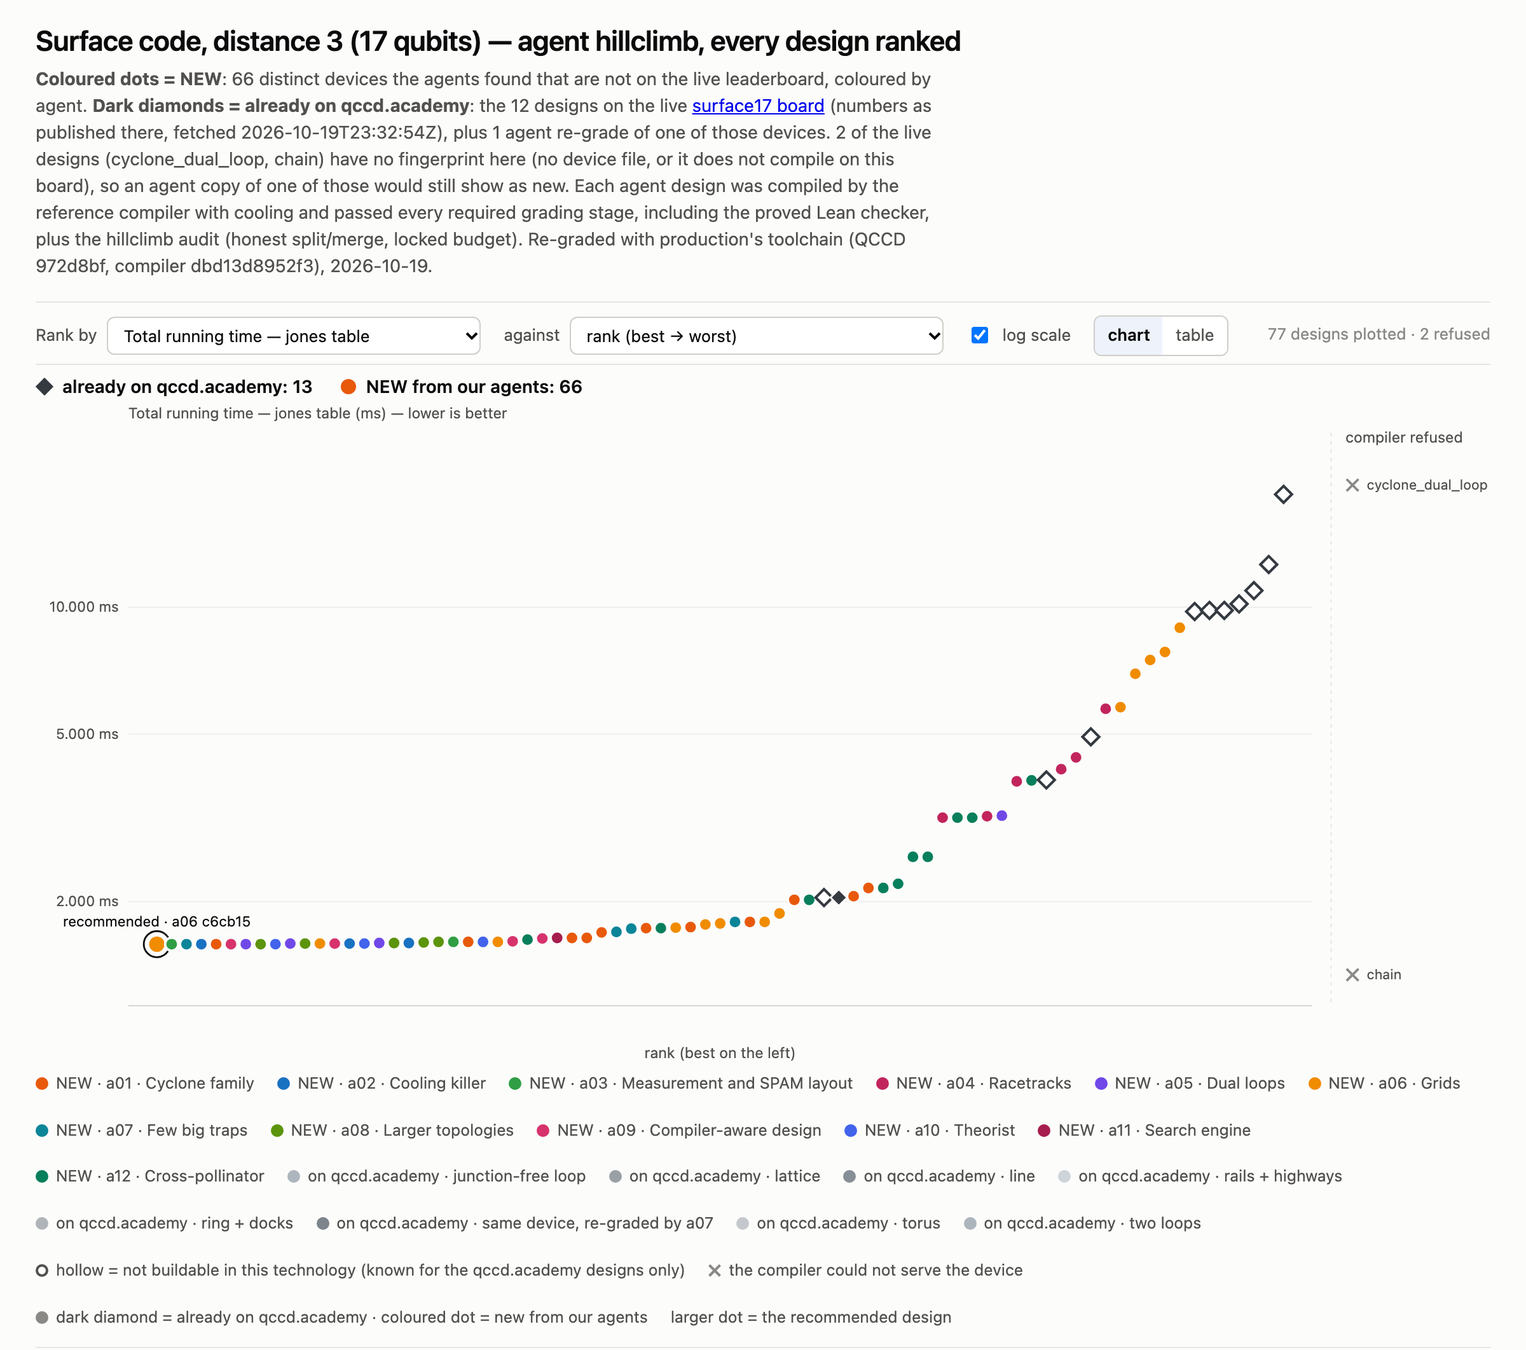
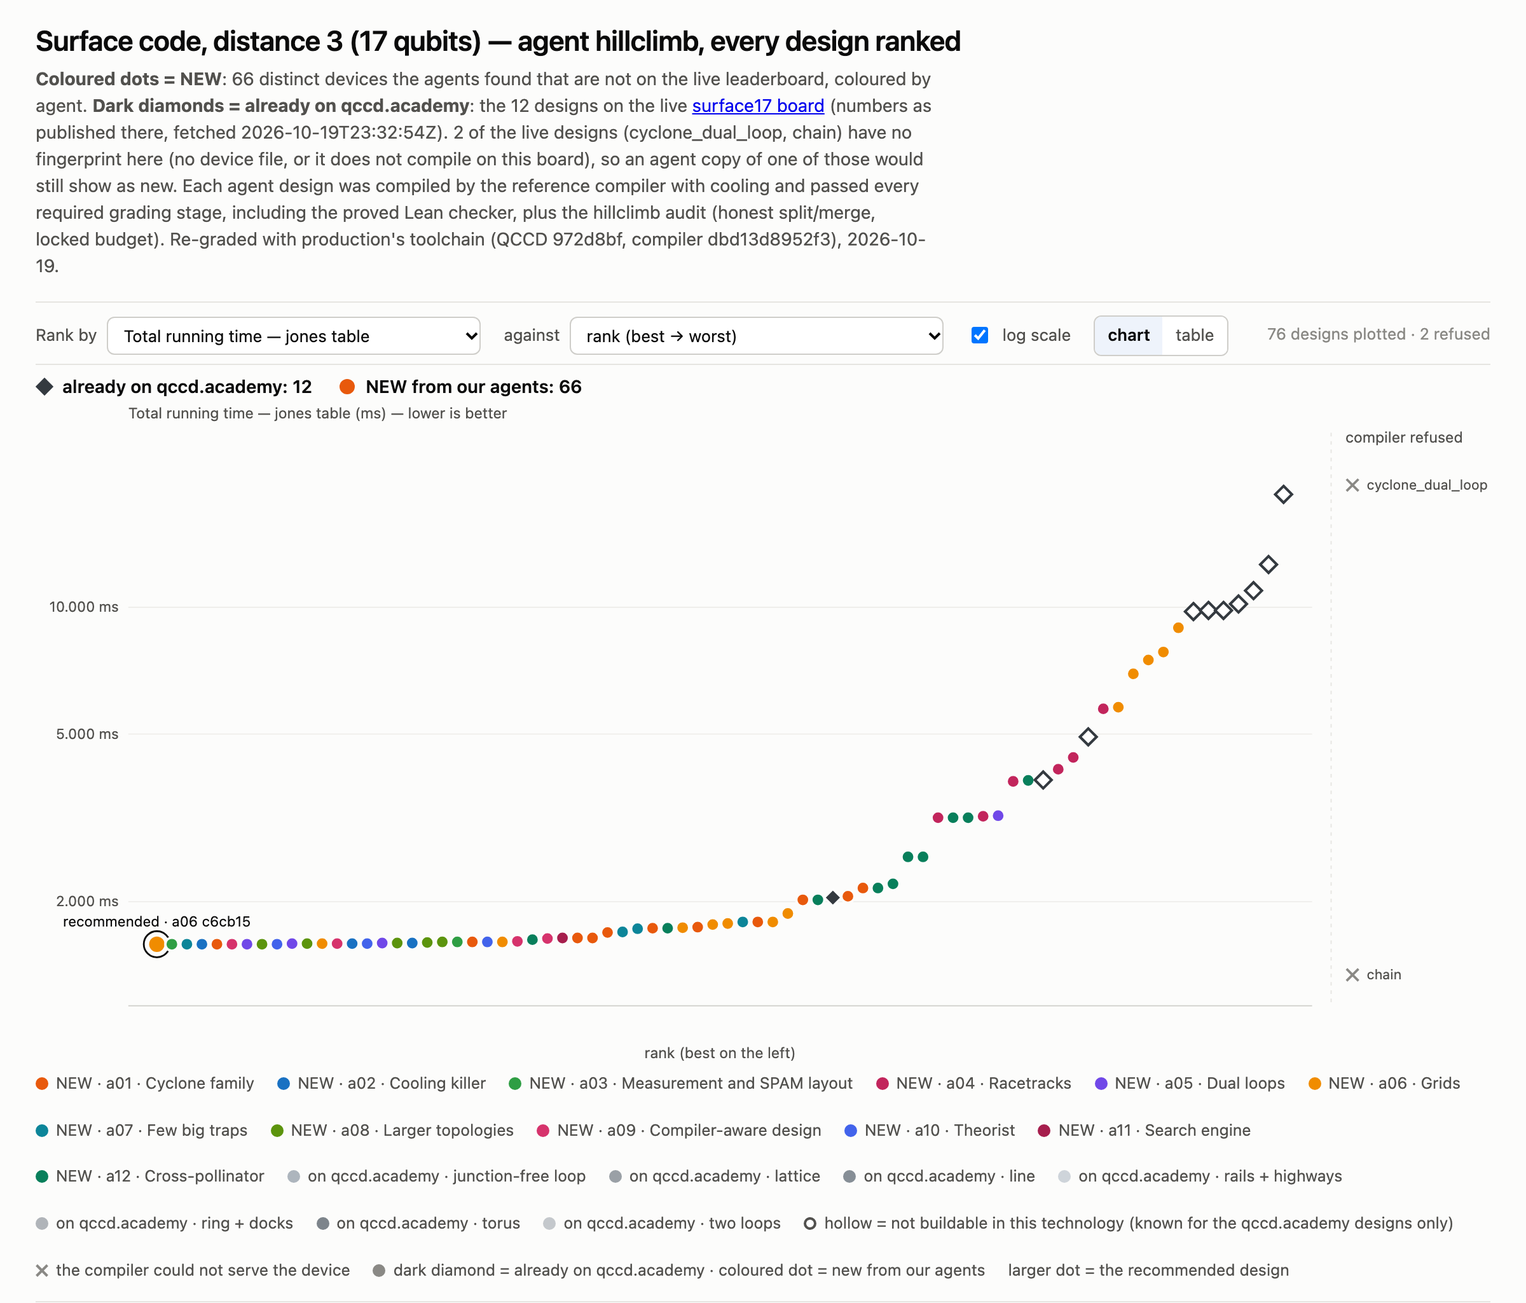
surface17: correct what the review found, name the toolchain, redraw the chart
- The winner has one gate-only trap, not two. grid 2x3 is about 4 ms slower than the 6-trap ring.
- The run was on 2026-10-18 (UTC). a06's direct-wired grid(2,3) and grid(3,3) failed the DAC budget,
  so they are not among the 66 devices.
- 16 transport instructions, not moves. Design #4 has one rail crossing two others. The chain and
  placer readings are attributed to the agents who made them.

- Live tables: a live design over the climb's 128-DAC budget is outside its rules even where a
  guessed rebuild passes, and every row where the page and the re-grade differ is listed.
- The chart draws each live design once; the agents' re-grades of live designs are left out, as in
  results.csv.
- The shared README and grade.py name yezhuoyang/QCCD's compiler branch at 972d8bf and give the
  toolchain steps: `qccd toolchain install` alone installs no checker. grade.py now times out after an
  hour, reports a failed grading job and closes its workspace.
- Numbers from the agents' search-time probes are marked as such; only graded designs were re-graded.
  The shared README says surface17's first four minutes ran on Opus 5 and names both graded exploits.
- grade.py, run under production's toolchain, reproduces every design file in this PR.

diff --git a/Codesign/hillclimb/grade.py b/Codesign/hillclimb/grade.py
@@ -2,8 +2,9 @@
 
 Each device is imported into a throwaway workspace, the board's circuit is compiled for it by the
 reference compiler (qccdc, compiler "auto"), and the result is frozen and graded under the reference
-profile. Run it from a checkout of the `compiler` branch (972d8bf or later) with the toolchain
-installed (`qccd toolchain install`), from the repository root:
+profile. Run it from the root of a checkout of yezhuoyang/QCCD's `compiler` branch at 972d8bf with
+this folder copied in, with compiler dbd13d8952f3 and a qcheck built from that checkout (README.md
+has the steps):
 
     python Codesign/hillclimb/grade.py rep9@1 Codesign/hillclimb/rep9/designs/*.arch.json
 
@@ -31,8 +32,11 @@ USER = {"kind": "human", "id": "cli"}
 DONE = ("succeeded", "failed", "cancelled", "timeout", "internal_error")
 
 
-def wait(ws: Workspace, job_id: str) -> dict:
+def wait(ws: Workspace, job_id: str, timeout: float = 3600.0) -> dict:
+    t0 = time.time()
     while (job := ws.job(job_id))["status"] not in DONE:
+        if time.time() - t0 > timeout:
+            raise SystemExit(f"timed out waiting for {job_id}")
         time.sleep(0.3)
     return job
 
@@ -42,17 +46,22 @@ def grade(board: str, path: Path) -> str:
     base = base_from_arch(arch)
     with tempfile.TemporaryDirectory() as tmp:
         ws = Workspace.init(Path(tmp) / "ws", board)
-        change = ws.apply_change_set({"expected_revision": ws.head().revision, "request_id": "import", "mode": "apply",
-                                      "summary": "import", "operations": [{"type": "studio_sync", "base": {
-                                          "geom": base.geom, "seed": base.seed, "post": base.post}}]}, USER)
-        if change.get("status") != "committed":
-            return f"import refused: {change}"
-        job = wait(ws, ws.submit_design(USER, board=board, profile="reference")["job_id"])
-        result = job.get("result") or {}
-        if job["status"] != "succeeded":
-            return f"submit {job['status']}: {(result.get('log') or job.get('error'))}"[-600:]
-        wait(ws, result["grading_job"])
-        report = ws.submission(result["submission_id"])["report"] or {}
+        try:
+            sync = {"type": "studio_sync", "base": {"geom": base.geom, "seed": base.seed, "post": base.post}}
+            change = ws.apply_change_set({"expected_revision": ws.head().revision, "request_id": "import",
+                                          "mode": "apply", "summary": "import", "operations": [sync]}, USER)
+            if change.get("status") != "committed":
+                return f"import refused: {change}"
+            job = wait(ws, ws.submit_design(USER, board=board, profile="reference")["job_id"])
+            result = job.get("result") or {}
+            if job["status"] != "succeeded":
+                return f"submit {job['status']}: {str(result.get('log') or job.get('error'))[-600:]}"
+            graded = wait(ws, result["grading_job"])
+            if graded["status"] != "succeeded":
+                return f"grading {graded['status']}: {graded.get('error')}"
+            report = ws.submission(result["submission_id"])["report"] or {}
+        finally:
+            ws.close()
     metric = report.get("rank_by")
     value = ((report.get("metrics") or {}).get(metric) or {}).get("value")
     eligibility = report.get("eligibility") or {}

diff --git a/Codesign/hillclimb/README.md b/Codesign/hillclimb/README.md
@@ -1,20 +1,25 @@
 # Hillclimb · agent-designed devices for five architecture boards
 
-Teams of Claude Code agents (Opus 5.5) searched for trapped-ion QCCD **devices** with the lowest
-`T_jones` on five qccd.academy architecture boards, one board at a time, between 2026-10-18 and
-2026-10-19. This folder holds the best devices of every board, the numbers of every distinct device
-they graded, and a script that grades them again.
+Teams of Claude Code agents searched for trapped-ion QCCD **devices** with the lowest `T_jones` on
+five qccd.academy architecture boards, one board at a time, between 2026-10-18 and 2026-10-19. They
+ran on Opus 5.5, except for their first four minutes on `surface17` (05:37 to 05:41 UTC), which ran
+on Opus 5. Those minutes made 37 of the board's 81 grades, including those of two of its seven
+picks, `bingran-agent-4` and `-6`. This folder holds the best devices of every board, the numbers
+of every new distinct device they graded that passed this climb's audit, and a script that grades
+them again.
 
-**Every number here was re-graded with the toolchain production runs since 2026-10-19 20:30 UTC**:
-the Python of QCCD `972d8bf`, compiler `dbd13d8952f3` (the published Linux build, sha256 `9897b5f6…`)
-and qcheck built from `972d8bf` (sha256 `4c78a9d5…`, the same bytes as production's). The search
-itself ran on compiler `c7c535380bfb`, since withdrawn. Each board's `results.csv` keeps both numbers.
-Nothing has been submitted to the official leaderboard.
+**Every device in the `results.csv` files, and every live design that could be rebuilt, was
+re-graded with the toolchain production runs since 2026-10-19 20:30 UTC**: the Python of QCCD
+`972d8bf`, compiler `dbd13d8952f3` (the published Linux build, sha256 `9897b5f6…`) and qcheck built
+from `972d8bf` (sha256 `4c78a9d5…`, the same bytes as production's). The search itself ran on
+compiler `c7c535380bfb`, since withdrawn. Each board's `results.csv` keeps both numbers. Numbers
+from the agents' probes, marked as such, are from the search under `c7c535380bfb` and were not
+re-graded. Nothing has been submitted to the official leaderboard.
 
 | board | best here | best live design, graded the same way | faster by | the device |
 |---|---:|---:|---:|---|
 | [`surface17@1`](surface17/) | **1.585 ms** | 2.045 ms (`stationary_chain`) | 1.29× | 5 traps on a junction-free cycle, direct wiring, 120 DACs |
-| [`bb144@1`](bb144/) | **96.74 ms** | 417.89 ms (`grid13x13`) | 4.32× | 168 traps on a junction-free cycle declared as one loop, broadcast wiring, 46 DACs |
+| [`bb144@1`](bb144/) | **96.74 ms** | 417.89 ms (`grid13x13 broadcast`) | 4.32× | 168 traps on a junction-free cycle declared as one loop, broadcast wiring, 46 DACs |
 | [`steane@1`](steane/) | **1.44 ms** | 1.825 ms (`stationary_chain`) | 1.27× | 5 traps on a junction-free cycle, direct wiring, 120 DACs |
 | [`five_qubit@1`](five_qubit/) | **1.62 ms** | 1.815 ms (`stationary_chain`) | 1.12× | 6 traps on a junction-free cycle, broadcast wiring, 33 DACs |
 | [`rep9@1`](rep9/) | **1.305 ms** | 1.99 ms (`stationary_chain`) | 1.52× | a 20-site race track: gate-only traps between readout-only sites, 34 DACs |
@@ -37,19 +42,33 @@ Codesign/hillclimb/
   grade.py          grade device files on a board, as `qccd submit --local` does
   <board>/
     README.md       the winning device, why it is fast, the top designs and the live designs
-    chart.png       every graded design ranked, beside the live designs, as on the board's page
-    designs/        the 10 best distinct devices (surface17 also has its 7 picks), as .arch.json
-    results.csv     every distinct device the agents graded, both numbers, eligibility and audit
+    chart.png       every graded design that passed the audit, ranked beside the live designs, as on the board's page
+    designs/        the best distinct devices, up to 10 (surface17 also has its 7 picks), as .arch.json
+    results.csv     every new distinct device the agents graded that passed the audit, both numbers, eligibility and audit
 ```
 
-To grade them again, from a checkout of the `compiler` branch (`972d8bf` or later) with the
-toolchain installed (`qccd toolchain install`), in the repository root:
+To grade them again, use yezhuoyang/QCCD's `compiler` branch at `972d8bf` with this folder copied
+in. `grade.py` needs `qccd.workspace`, which `main` does not have, and this fork's `compiler` branch
+does not contain `972d8bf`. From the root of a checkout that has `Codesign/hillclimb`:
 
 ```bash
+git fetch https://github.com/yezhuoyang/QCCD compiler
+git worktree add ../qccd-compiler 972d8bf
+cp -R Codesign/hillclimb ../qccd-compiler/Codesign/
+cd ../qccd-compiler
+pip install -e '.[agent]'                  # `qccd`, and stim, qiskit and numpy for the semantics stage
+qccd toolchain install                     # compiler dbd13d8952f3, on Linux or Windows (x86-64) only
+(cd Compiler/lean/checker && lake build)   # qcheck
 python Codesign/hillclimb/grade.py rep9@1 Codesign/hillclimb/rep9/designs/*.arch.json
 ```
 
-`main` has no `qccd.workspace`, which `grade.py` needs, so run it from `compiler`.
+At `972d8bf`, `qccd toolchain install` installs no checker on any platform, and no compiler on
+macOS. Without qcheck the required `lean_certificate` stage is `unsupported`, so every design comes
+out not eligible. `lake build` needs Lean's `elan`, which fetches the pinned
+`leanprover/lean4:v4.29.0-rc2`. On macOS, build the compiler from source too: OCaml 5.3 with opam,
+`opam install dune yojson.2.2.2`, then `dune build bin/qccdc_cli.exe` in `Compiler/ocaml`, whose tree
+at `972d8bf` is `dbd13d8952f3`. The evaluator takes `QCCD_QCCDC` and `QCCD_QCHECK` if they are set,
+then a build in the checkout, then what `qccd toolchain install` installed.
 
 ## How the search ran
 
@@ -76,25 +95,32 @@ this climb's own audit:
    junction. No segment joins two nodes at the same position.
 4. **Physics unchanged.** The primitives, heating, species and budget blocks are the board's.
 
-Agents could probe as much as they liked with a local copy of the compiler, but only graded designs
-count. Anything that lowered `T_jones` by exploiting the grader rather than improving the device was
-written up and, with one exception noted in [`bb144/`](bb144/), not graded. Each board's README lists
-them.
+Agents could probe as much as they liked (a local copy of the compiler, or `hc-grade --no-log`,
+which grades without logging), but only grades logged on the shared board count. On `surface17`, two
+of them failed the audit: a06's direct-wired `grid(2,3)` and `grid(3,3)`, at 168 and 288 DACs. They
+are among the 81 grades but not the 66 devices, and were not re-graded. Anything that lowered
+`T_jones` by exploiting the grader rather than improving the device was written up and, with two
+exceptions, not logged: one loop through junctions on [`bb144`](bb144/), and a line whose rails pass
+over other traps on [`five_qubit`](five_qubit/) (#2). On `five_qubit`, a02 also argued that the
+winner relies on coarse hop labels (only the signs of dx and dy), which let hops at different angles
+share one waveform; a04 counted it as honest. Each board's README lists what its agents found.
 
 ## What carried over between boards
 
 - **No junctions.** Every winner is junction-free. A junction crossing costs 100–120 µs and +3
   quanta, which soon forces a 300 µs cool; a hop along a cycle costs 5 µs and +0.1 quanta.
 - **The general router's fixed part.** It emits one measure instruction per ASAP layer of the
-  circuit as written, and one MS instruction per layer, so cooling, gates and readout are the same
-  on every device. A device only changes transport and the cools that transport causes. On
-  `surface17` that floor is 1.505 ms + 5 µs per transport instruction. On `steane` the agents
-  derived `T_jones ≥ 1.400 ms` for any device.
+  circuit as written, and one MS instruction per layer, unless a layer has more gates than there
+  are gate traps (R12); then the layer splits into extra rounds. On a device with enough gate traps,
+  the state-prep cool, gates and readout are fixed, and the device only changes transport and the
+  cools that transport causes. On `surface17` that floor is 1.505 ms + 5 µs per transport
+  instruction. On `steane` the agents derived `T_jones ≥ 1.400 ms` for any device.
 - **Document order is a lever.** The placer and the meeting-point choice break ties by node and
   segment order in the device file, so the agents searched that order. The geometry, wiring and
   physics do not change, but the compiled schedule does. On `bb144`, listing the data traps first
-  took the cycle from 134.6 to 110.6 ms, and order search took it from 103.1 to 96.74 ms. Read these
-  numbers as "this device, as written, under the reference compiler".
+  took the cycle from 134.6 ms (a search-time probe, never graded) to 110.6 ms, and order search took
+  it from 103.1 to 96.74 ms. Read these numbers as "this device, as written, under the reference
+  compiler".
 - **Leaving the general router.** On `rep9` the general router cannot route a loop of capacity-1
   sites, and the rotation pass declines (no docks), so the compiler falls back to the race-track pass.
   With gate traps that cannot measure, that pass holds every readout back and reads all 8 ancillas
@@ -119,8 +145,10 @@ agents' re-grades of live designs, which were matched by device and by program.
 
 - **Split and merge are not charged on `shuttle`.** The router moves ions with the seed's `shuttle`
   class, which entails no split or merge, so an ion joining or leaving a multi-ion chain pays neither.
-  The designs here rely on this convention, and so do the live ones. Under honest
-  split/merge, `surface17`'s 1.595 ms 4-cycle would take 7.18 ms and `cyclone_base` 23.5 ms.
+  The designs here rely on this convention, and so do the live ones. Under honest split/merge, a
+  search-time probe by `surface17`'s a02 put its own 1.595 ms 4-cycle at 7.18 ms (10 cools, and a
+  program that breaks R14, so it would be refused) and `cyclone_base` at 23.5 ms. Neither number
+  was re-graded.
 - **The audit is this climb's.** The official evaluator checks neither the DAC budget nor direct-wiring
   cost. All designs here pass both, but the official board would accept designs that do not.
 - **Ties.** Many devices tie at the top. Ties are ordered by the search grade and then by time,

diff --git a/Codesign/hillclimb/surface17/README.md b/Codesign/hillclimb/surface17/README.md
@@ -5,15 +5,15 @@ showed `cyclone_base` at 3.89 ms as its best when the run started. Nine agents r
 nine different devices. [`01-a06-c6cb1514`](designs/01-a06-c6cb1514.arch.json) is five traps on a
 closed cycle. Every node has degree 2, so there is no junction anywhere. Its plain segments sit on no
 named loop, and it uses direct wiring, 120 DACs. In cycle order the capacities are 6, 4, 3, 4 and 8.
-Two traps gate only and have no readout. With no conveyor declared, the router runs free: ions on one
-cycle may move in different directions.
+One trap, the 4 between the 6 and the 3, gates only and has no readout. With no conveyor declared,
+the router runs free: ions on one cycle may move in different directions.
 
 | | cool | gates | measure | shuttle | total |
 |---|---:|---:|---:|---:|---:|
-| µs | 300 | 485 | 720 (6 instructions) | 80 (16 moves) | **1585** |
+| µs | 300 | 485 | 720 (6 instructions) | 80 (16 transport instructions) | **1585** |
 
-The longest chain is 8 ions, so the win does not come from long chains. How it got there (grades at
-search time):
+Its longest chain is 8 ions. a06 reads this as the win not coming from long chains; a02 thinks big
+chains help keep routes short. How it got there (grades at search time):
 
 | step | ms |
 |---|---:|
@@ -31,14 +31,17 @@ instruction** on any device. Layers 0, 3 and 5 hold four gate operations each, a
 its trap (R12), so at least 4 traps must be able to gate. A 3-trap triangle needs only 14 or 15
 transports, but its gates split into extra rounds (685 µs).
 
-One agent ran ten processes of an evolutionary search over n-trap cycles for about two hours, each
-at about 30 devices a second. Every process plateaued at 16 transports with 5 traps, or 18 with 4. With
-`--init-placement` (analysis only) the same devices need 13 or 14, so what is left is in the placer,
+One agent, a06, ran ten processes of an evolutionary search over n-trap cycles for about two hours,
+each at about 30 devices a second, scored by a local copy of the search compiler. Every process
+plateaued at 16 transports with 5 traps, or 18 with 4. With `--init-placement` (local probes, never
+graded) the same devices need 13 or 14, so a06 concludes that most of what is left is in the placer,
 not the device.
 
-**Why grids lose.** In `grid(a,b)` with a, b ≥ 3, the lattice nodes between traps have degree 3 or 4:
-they are junctions (R18). On `grid 4x4`, 46 transport instructions cost 4,735 µs and force 10 cools
-(3,000 µs). Even the two junctions of `grid 2x3` cost about 2 ms more than a ring.
+**Why grids lose.** In `grid(a,b)` with a, b ≥ 2, every lattice node that is not a corner has degree
+3 or 4, so it is a junction (R18). Only `grid 2x2`, whose four nodes are all corners, has none. On
+`grid 4x4`, 46 transport instructions cost 4,735 µs and force 10 cools (3,000 µs). Even `grid 2x3`,
+with two junctions, takes 5.79 ms. That is about 4 ms more than the 6-trap ring #31 (1.69 ms) with
+almost the same number of transports (38 against 37), and about 2 ms more than `cyclone_base`.
 
 **The picks.** Seven designs were chosen as `bingran-agent-1` to `-7` for the official board (not
 submitted). The `file` column marks them. They cover one each of: a 5-trap cycle, a 4-trap cycle, a
@@ -47,8 +50,10 @@ grid.
 
 **Board-wide caveat.** The router moves ions with the seed's `shuttle` class, which entails no split or
 merge. An ion that joins or leaves a multi-ion chain pays neither. The designs here rely on this
-convention, and so do the live ones. If split and merge were charged honestly, the 1.595 ms
-4-cycle would take 7.18 ms (10 cools), and `cyclone_base` 23.5 ms.
+convention, and so do the live ones. a02 estimated, under the search compiler, that with split and
+merge charged, its own 1.595 ms 4-cycle (`1792303625-a02-e049dedc`, in `results.csv`) would take
+7.18 ms (10 cools, plus R14 `gate_swap` violations) and `cyclone_base` 23.5 ms. Neither number was
+graded.
 
 **Not counted.** Several agents noted levers they did not use:
 
@@ -61,13 +66,22 @@ at the same position.
 
 ## The designs
 
-Every graded design ranked, beside the live designs (grey), as on the board's page:
+Every graded design that passed the audit, ranked beside the live designs (dark diamonds, hollow
+when not buildable), as on the board's page:
 
 ![surface17: every design ranked](chart.png)
 
+Two more devices, a06's direct-wired `grid(2,3)` and `grid(3,3)` at 168 and 288 DACs, failed the
+128-DAC budget at search time. They are not in the chart, the table or `results.csv`.
+
 `planar` checks the positions as written: no rail passes over another node and no two rails cross.
-Design #4 draws its 5-cycle with two crossing rails. It is directly wired, so R22 does not apply and
-positions do not label its hops.
+Design #4 draws its 5-cycle with one rail crossing two others. It is directly wired, so R22 does not
+apply and positions do not label its hops.
+
+The `note` column of `results.csv` and the `description` in each design file are the agents' own
+words. The files and tools they name, such as `a10/NOTES.md` or `tools/ufast.py`, were the agents'
+working files and are not in this PR. Where a note and a column disagree, the column is the graded
+value: the note on #22 says 96 DACs, and the device grades at 128.
 
 <!-- designs -->
 Ranked under production's toolchain; *at search* is the grade under `c7c535380bfb`. All 66 distinct devices are in [`results.csv`](results.csv).
@@ -102,10 +116,10 @@ The board's page as fetched at 2026-10-19 23:32 UTC; its numbers were regenerate
 | `stationary_chain` (answer) | 2.045 | 2.045 | yes | yes | arch/stationary_chain.arch.json |
 | `cyclone_base` | 3.89 | 3.89 | yes | yes | arch/cyclone_base.arch.json |
 | `h2_racetrack` | 4.925 | 4.925 | yes | yes | arch/h2_racetrack.arch.json |
-| `grid5x5` | 9.77 | 9.77 | yes | yes | Machine.grid(5, 5) (guess) |
-| `grid9x9` | 9.83 | 9.83 | yes | no | arch/grid9x9.arch.json |
+| `grid5x5` | 9.77 | 9.77 | yes | no (1,600 DACs on the page; the rebuild passes) | Machine.grid(5, 5) (guess) |
+| `grid9x9` | 9.83 | 9.83 | yes | no (5,760 DACs) | arch/grid9x9.arch.json |
 | `deck_unit_cell` | 9.83 | 9.83 | yes | yes | arch/deck_unit_cell.arch.json |
-| `cylinder6x4` | 10.18 | 10.18 | yes | no | generators.cylinder(6, 4) with grid9x9 zones and control |
+| `cylinder6x4` | 10.18 | 10.18 | yes | no (1,680 DACs) | generators.cylinder(6, 4) with grid9x9 zones and control |
 | `ladder_2x72` | 10.95 | 10.95 | yes | yes | arch/ladder_2x72.arch.json |
 | `ring24_8` | 12.635 | 26.94 | yes | yes | Machine.ring(12, 2, 8) (guess) |
 | `ring144_24v` | 18.54 | 37.69 | yes | yes | arch/ring144_24v.arch.json |
